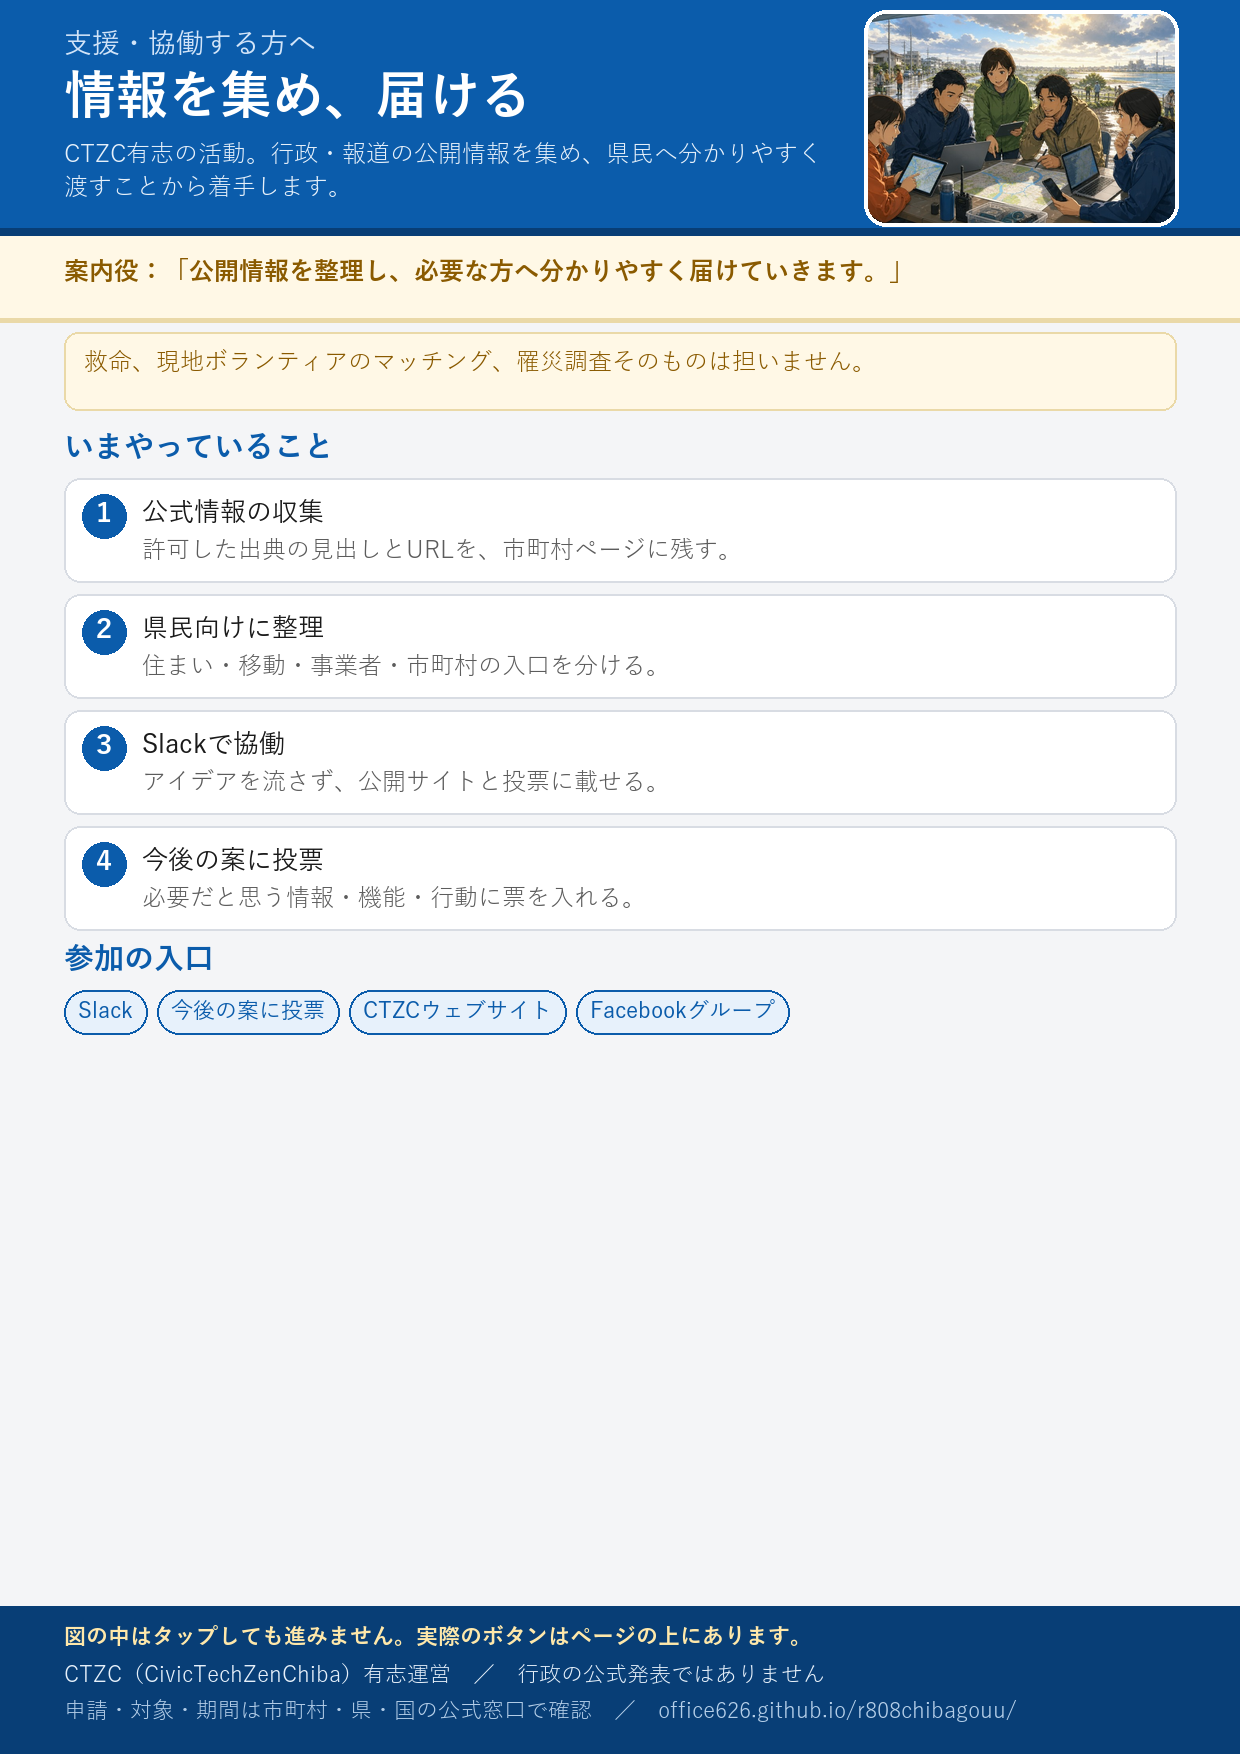
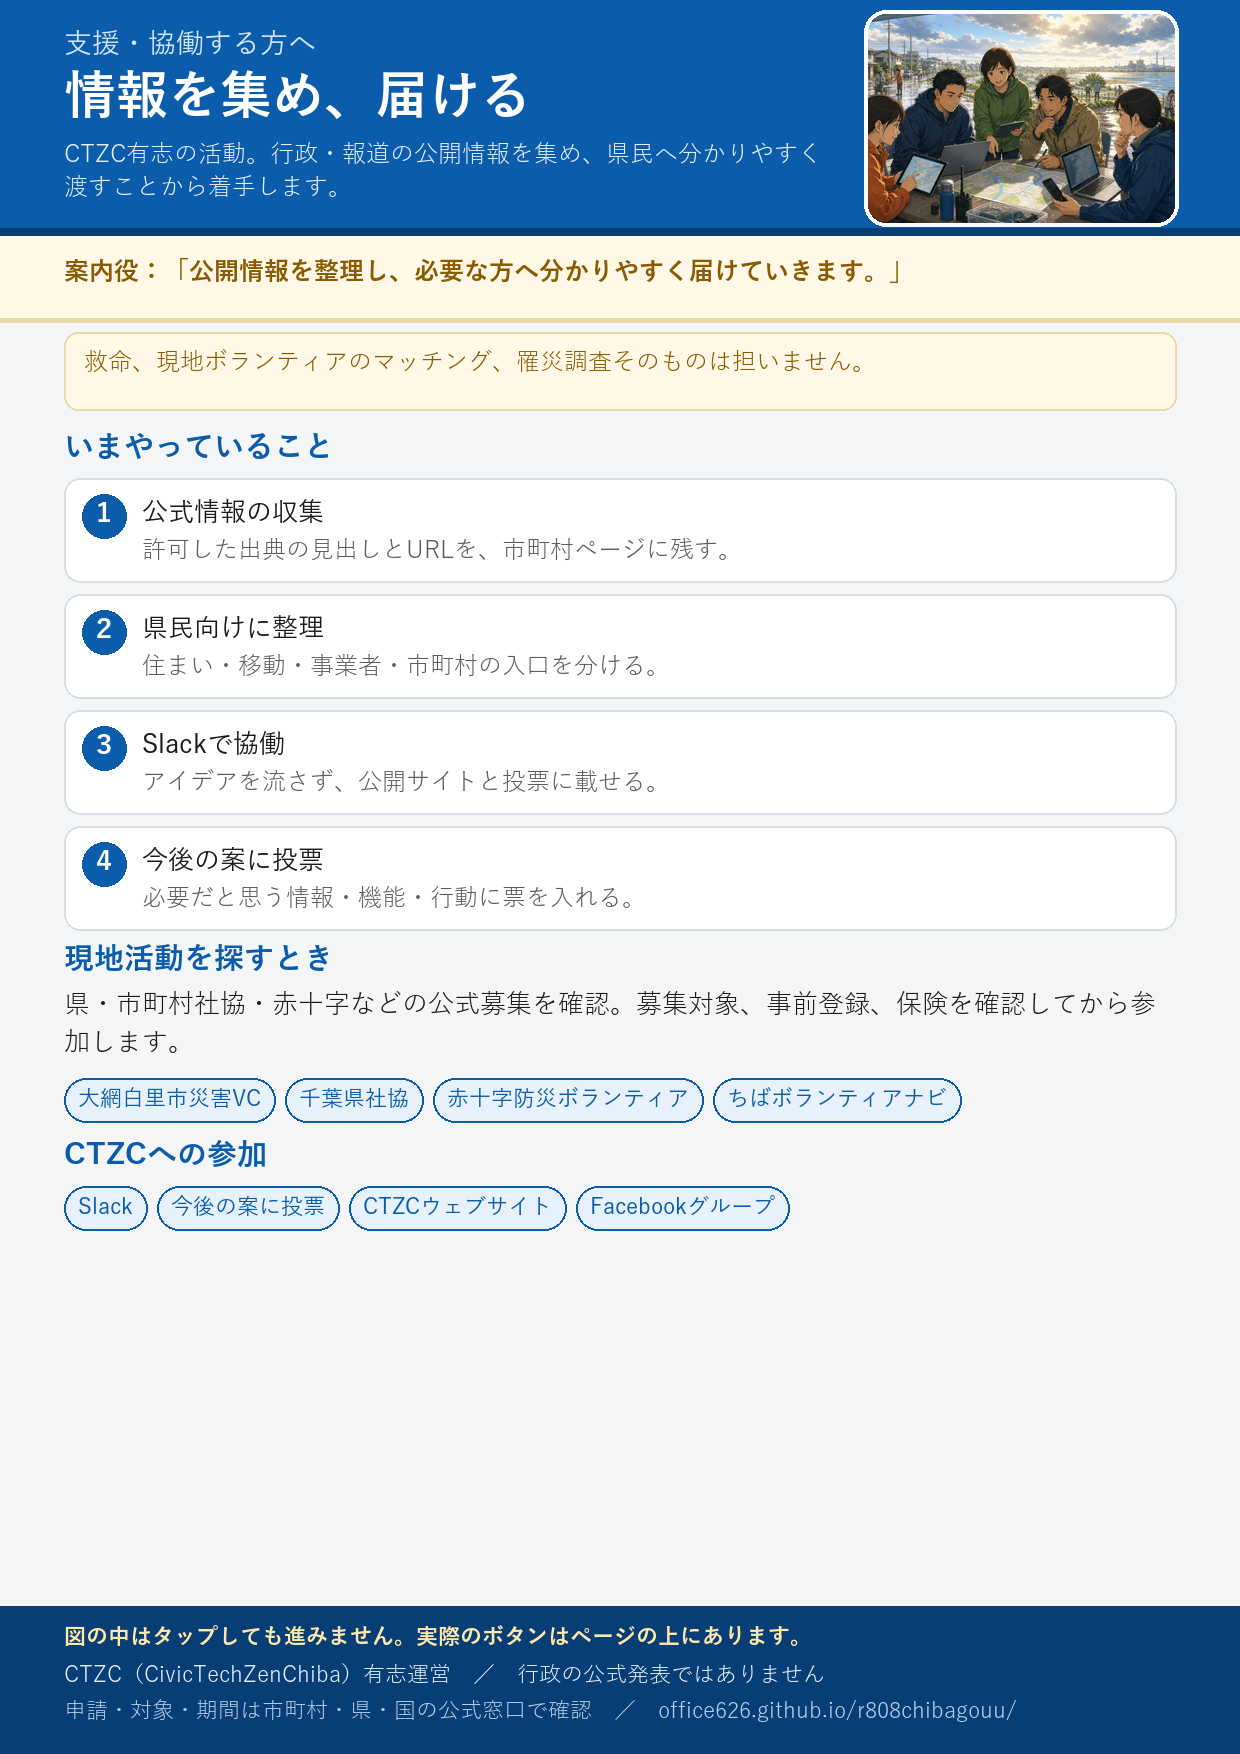
支援者ページに県内の災害ボランティア窓口を整理し、参加前に公式募集条件を確認できるようにする。

diff --git a/site/supporters/index.html b/site/supporters/index.html
@@ -45,6 +45,56 @@
       <a class="btn" href="https://civictechzenchiba.slack.com/archives/C0BPSMN4L5D">Slack に参加する</a>
       <a class="btn secondary" href="ideas.html">今後の案に投票する</a>
     </p>
+    <h2>千葉県内の災害支援ボランティア情報</h2>
+    <p class="notice">
+      <strong>現地へ向かう前に、必ず各機関の最新情報を確認してください。</strong>
+      災害ボランティアセンターが開設されていても、募集前・受付休止中の場合や、募集対象を市内・県内在住者に限る場合があります。事前登録、活動日、持ち物、ボランティア活動保険の条件を確認し、予約なしで現地へ行かないでください。
+    </p>
+    <div class="card">
+      <h3>今回の豪雨で開設を確認できた窓口</h3>
+      <ul>
+        <li>
+          <strong>大網白里市災害ボランティアセンター</strong>
+          <span class="badge admin">市公式</span>
+          <span class="badge npo">社会福祉協議会</span><br>
+          大網白里市社会福祉協議会が開設。家屋の片付けや家財の搬出などを支援します。市公式の案内では開設時間は午前9時から午後4時です。参加方法と当日の募集状況は、出発前に公式情報で確認してください。<br>
+          <a href="https://www.city.oamishirasato.lg.jp/0000015516.html" target="_blank" rel="noopener">大網白里市：災害ボランティアセンターの開設について</a>
+          ／
+          <a href="http://www.oamishakyo.com/m06_vol.html" target="_blank" rel="noopener">大網白里市社会福祉協議会：ボランティア</a>
+        </li>
+      </ul>
+      <p class="meta">確認日：2026年8月17日。千葉県社会福祉協議会は設置状況を調査中としており、被災自治体や社会福祉協議会への個別の問い合わせを可能な限り控えるよう案内しています。</p>
+    </div>
+    <div class="card">
+      <h3>募集・登録・最新情報を確認できる機関</h3>
+      <ul>
+        <li>
+          <a href="https://www.chibakenshakyo.com/info.php?cate=top&amp;id=202608141725449" target="_blank" rel="noopener">千葉県社会福祉協議会</a>
+          <span class="badge npo">社会福祉協議会</span><br>
+          今回の豪雨に伴う各市町村の災害ボランティアセンター設置状況を確認する県域の窓口です。
+        </li>
+        <li>
+          <a href="https://www.chiba.jrc.or.jp/activity/volunteer/bousai_volunteer.html" target="_blank" rel="noopener">日本赤十字社千葉県支部「赤十字防災ボランティア」</a>
+          <span class="badge npo">登録・研修</span><br>
+          平時から登録し、研修・訓練を受けて、災害時の情報収集、応急手当、物資輸送、避難所支援、災害ボランティアセンター運営補助などに参加します。
+        </li>
+        <li>
+          <a href="https://chiba-volunteer.jp/" target="_blank" rel="noopener">ちばボランティアナビ</a>
+          <span class="badge admin">県のマッチングサイト</span><br>
+          「災害救援」を含むテーマや地域、募集対象から、県内の公開中の募集情報を検索できます。
+        </li>
+        <li>
+          <a href="http://www.pref.chiba.lg.jp/kkbunka/npo/volunteer/index.html" target="_blank" rel="noopener">千葉県「災害ボランティア情報」</a>
+          <span class="badge admin">県公式</span><br>
+          県内の関係機関、全国社会福祉協議会、災害支援団体などの情報への入口です。
+        </li>
+        <li>
+          <a href="https://www.saigaivc.com/" target="_blank" rel="noopener">全社協 被災地支援・災害ボランティア情報</a>
+          <span class="badge npo">全国情報</span><br>
+          災害ボランティアセンターの設置・募集状況や、活動前の準備、ボランティア活動保険を確認できます。
+        </li>
+      </ul>
+    </div>
     <div class="card">
       <h2>被災後にあるとよいこと（投票）</h2>
       <p>罹災証明の案内の出し方、制度カレンダー、写真の残し方など、情報・機能・行動の案を並べています。必要だと思うものに投票してください。結果は今後の機能追加や新しいサービスの参考にします。</p>

diff --git a/scripts/build_infographics.py b/scripts/build_infographics.py
@@ -449,7 +449,10 @@ def build_all() -> None:
             "今後の案に投票：必要だと思う情報・機能・行動に票を入れる。",
         ]
     )
-    s.h2("参加の入口")
+    s.h2("現地活動を探すとき")
+    s.para("県・市町村社協・赤十字などの公式募集を確認。募集対象、事前登録、保険を確認してから参加します。")
+    s.pills(["大網白里市災害VC", "千葉県社協", "赤十字防災ボランティア", "ちばボランティアナビ"])
+    s.h2("CTZCへの参加")
     s.pills(["Slack", "今後の案に投票", "CTZCウェブサイト", "Facebookグループ"])
     s.save("info-supporters.png")
 
